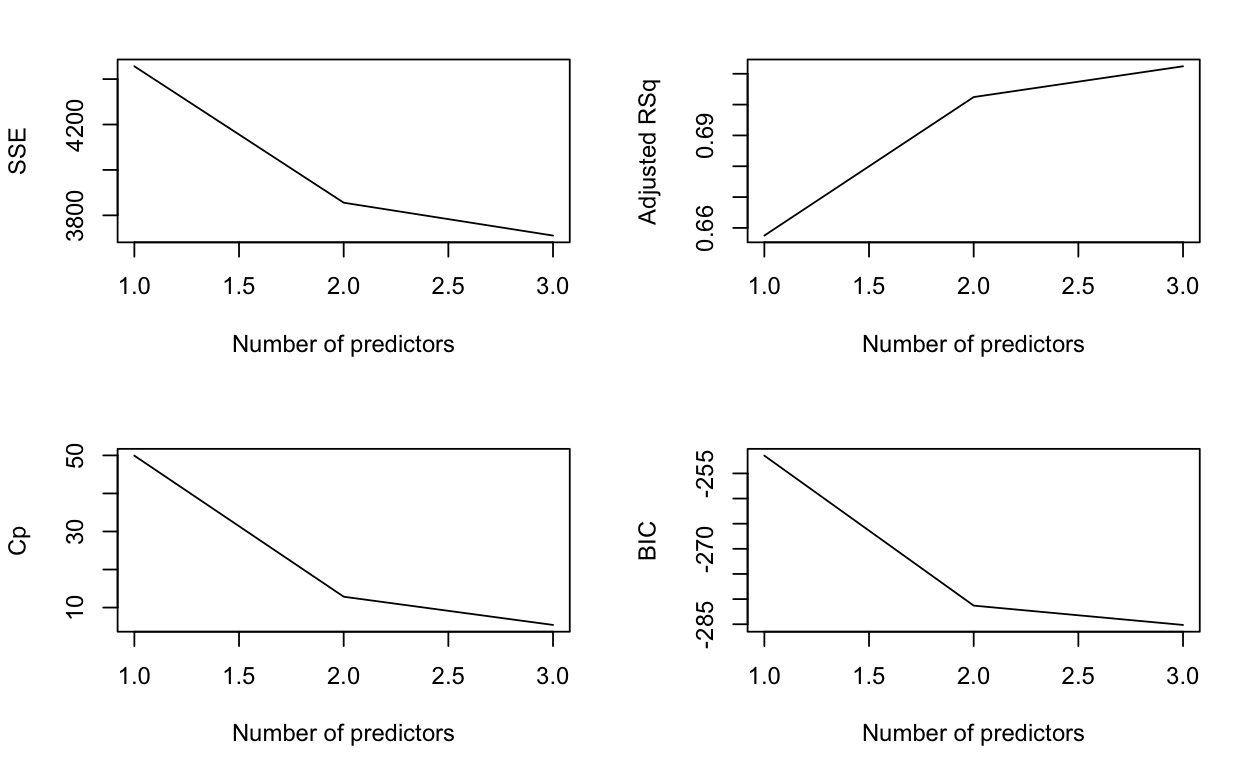
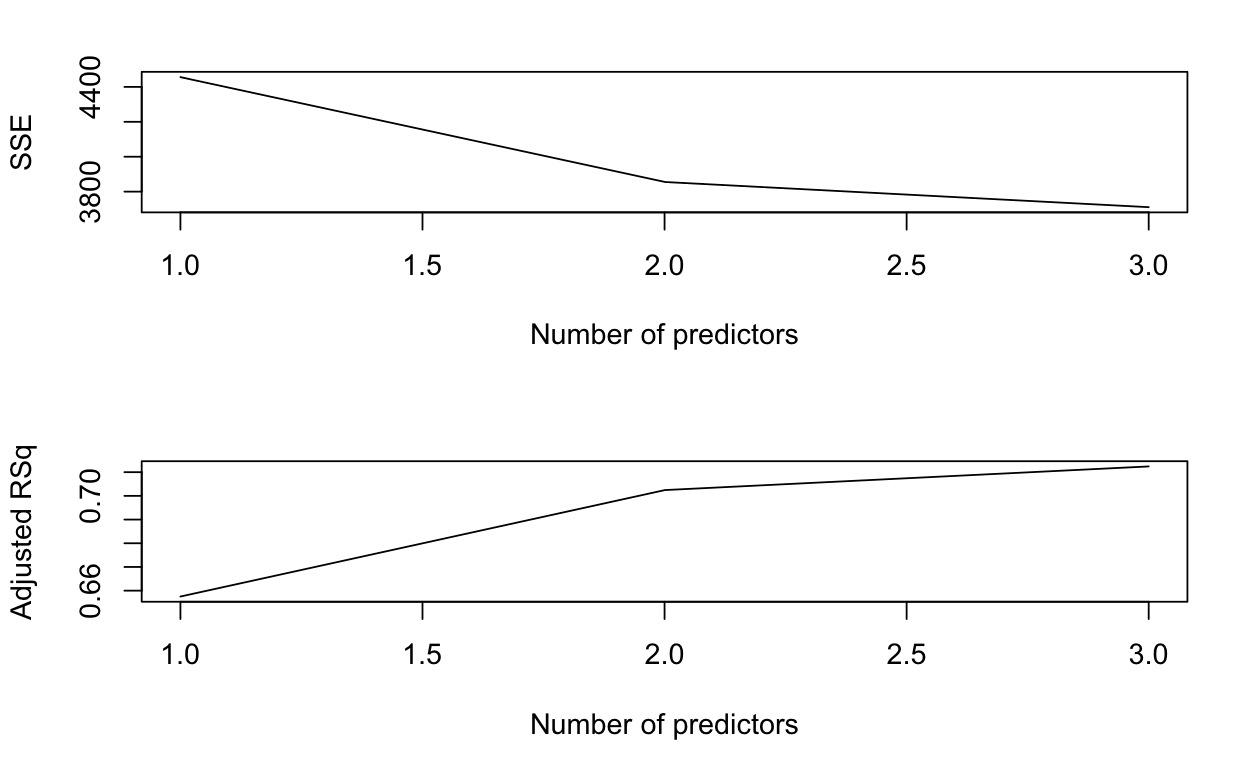
add image6

diff --git a/README.md b/README.md
@@ -25,10 +25,11 @@ You could play around with our model: [Body Fat Calculator](https://cwu377.shiny
 All images were produced by "model_update_final.Rmd". 
 So, I would just list the lines corresponding to each image. 
   - image1.png: Histogram of Abdomen (line 34~83)
-  - image2.png: Best Subset Method (line 108~123)
+  - image2.png: Best Subset Method with SSE and R2 (line 108~123)
   - image3.png: BodyFat% v.s. Abdomen (line 196~217)
   - image4.png: Residuals v.s. Fitted Values (line 220~231)
   - image5.png: QQ plot (line 246~252)
+  - image6.png: Best Subset Method with SSE, R2, Cp and BIC (line 108~123)
 
 - Two-page Summary
 - README: You are reading me now
